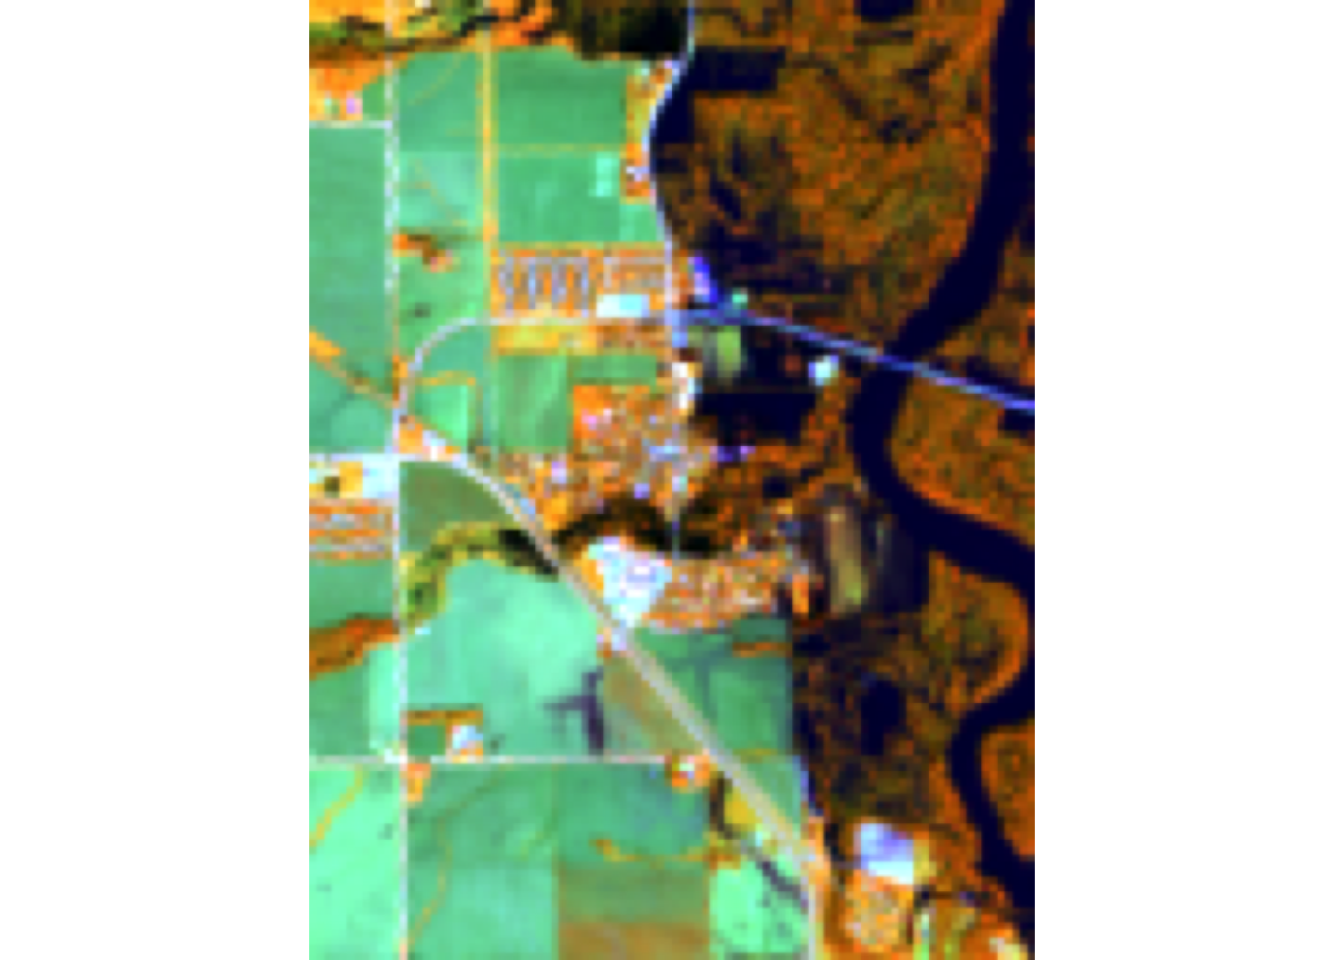
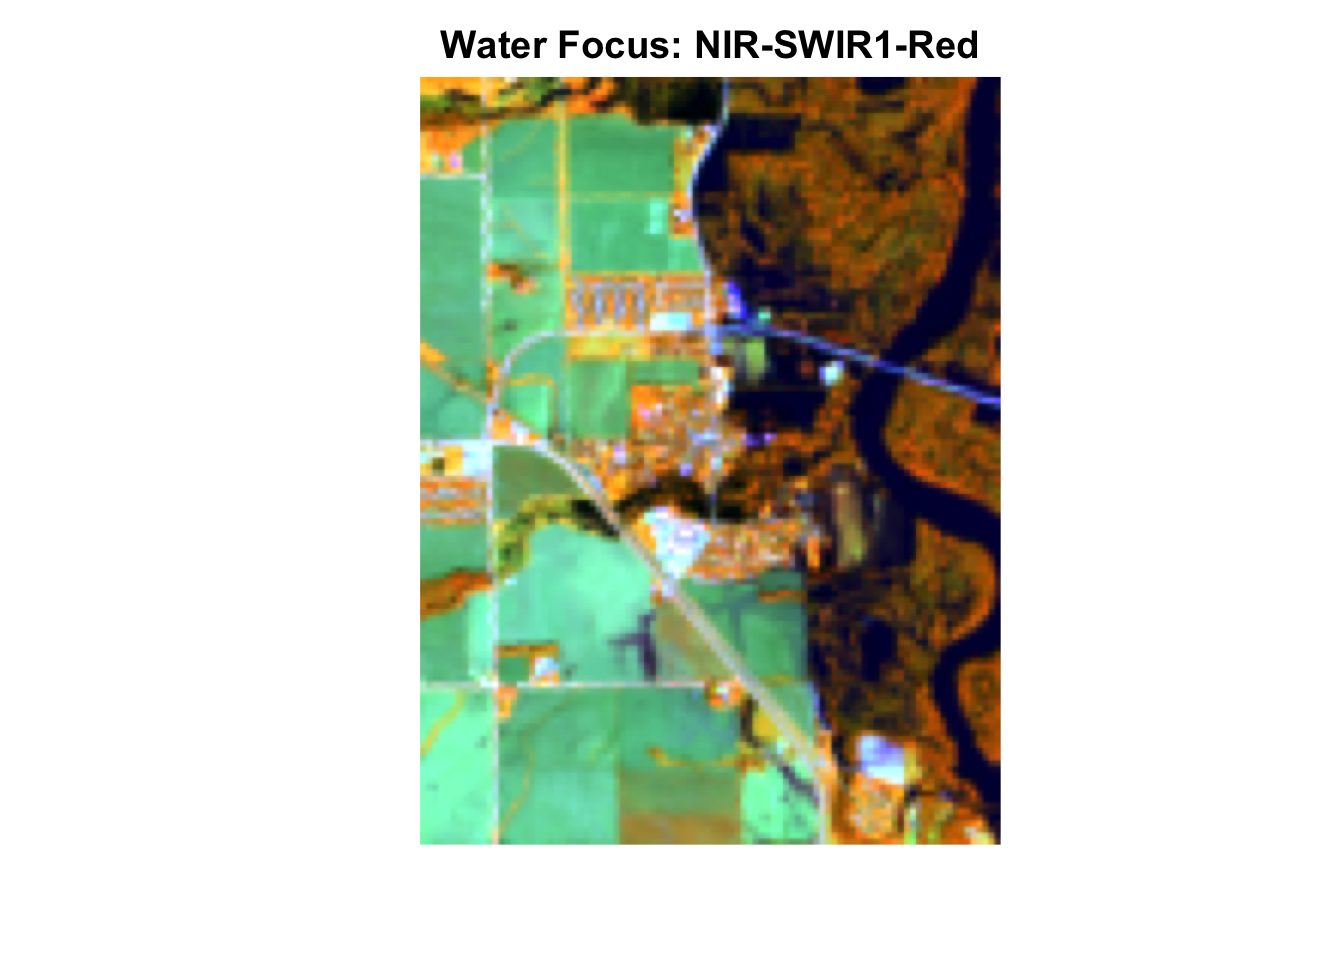
Lab 4 complete, fixed rbg plot titles

diff --git a/docs/523C_Lab-04_Schwanger.html b/docs/523C_Lab-04_Schwanger.html
@@ -273,8 +273,8 @@ window.Quarto = {
 <span id="cb2-4"><a href="#cb2-4" aria-hidden="true" tabindex="-1"></a></span>
 <span id="cb2-5"><a href="#cb2-5" aria-hidden="true" tabindex="-1"></a><span class="fu">mapview</span>(palo)</span></code></pre></div><button title="Copy to Clipboard" class="code-copy-button"><i class="bi"></i></button></div>
 <div class="cell-output-display">
-<div class="leaflet html-widget html-fill-item" id="htmlwidget-89f7363a204806e15efd" style="width:100%;height:464px;"></div>
-<script type="application/json" data-for="htmlwidget-89f7363a204806e15efd">{"x":{"options":{"minZoom":1,"maxZoom":52,"crs":{"crsClass":"L.CRS.EPSG3857","code":null,"proj4def":null,"projectedBounds":null,"options":{}},"preferCanvas":false,"bounceAtZoomLimits":false,"maxBounds":[[[-90,-370]],[[90,370]]]},"calls":[{"method":"addProviderTiles","args":["CartoDB.Positron","CartoDB.Positron","CartoDB.Positron",{"errorTileUrl":"","noWrap":false,"detectRetina":false,"pane":"tilePane"}]},{"method":"addProviderTiles","args":["CartoDB.DarkMatter","CartoDB.DarkMatter","CartoDB.DarkMatter",{"errorTileUrl":"","noWrap":false,"detectRetina":false,"pane":"tilePane"}]},{"method":"addProviderTiles","args":["OpenStreetMap","OpenStreetMap","OpenStreetMap",{"errorTileUrl":"","noWrap":false,"detectRetina":false,"pane":"tilePane"}]},{"method":"addProviderTiles","args":["Esri.WorldImagery","Esri.WorldImagery","Esri.WorldImagery",{"errorTileUrl":"","noWrap":false,"detectRetina":false,"pane":"tilePane"}]},{"method":"addProviderTiles","args":["OpenTopoMap","OpenTopoMap","OpenTopoMap",{"errorTileUrl":"","noWrap":false,"detectRetina":false,"pane":"tilePane"}]},{"method":"createMapPane","args":["polygon",420]},{"method":"addPolygons","args":[[[[{"lng":[-91.81281300000001,-91.778813,-91.778813,-91.81281300000001,-91.81281300000001],"lat":[42.048236,42.048236,42.082236,42.082236,42.048236]}]]],null,"palo",{"crs":{"crsClass":"L.CRS.EPSG3857","code":null,"proj4def":null,"projectedBounds":null,"options":{}},"pane":"polygon","stroke":true,"color":"#333333","weight":0.5,"opacity":0.9,"fill":true,"fillColor":"#6666FF","fillOpacity":0.6,"smoothFactor":1,"noClip":false},"<div class='scrollableContainer'><table class=mapview-popup id='popup'><tr class='coord'><td><\/td><th><b>Feature ID&emsp;<\/b><\/th><td>1&emsp;<\/td><\/tr><tr><td>1<\/td><th>request&emsp;<\/th><td>Palo, Iowa&emsp;<\/td><\/tr><tr><td>2<\/td><th>score&emsp;<\/th><td>100&emsp;<\/td><\/tr><tr><td>3<\/td><th>arcgis_address&emsp;<\/th><td>Palo, Iowa&emsp;<\/td><\/tr><tr><td>4<\/td><th>x&emsp;<\/th><td>-91.79581&emsp;<\/td><\/tr><tr><td>5<\/td><th>y&emsp;<\/th><td>42.06524&emsp;<\/td><\/tr><tr><td>6<\/td><th>geometry&emsp;<\/th><td>sfc_POLYGON&emsp;<\/td><\/tr><\/table><\/div>",{"maxWidth":800,"minWidth":50,"autoPan":true,"keepInView":false,"closeButton":true,"closeOnClick":true,"className":""},"1",{"interactive":false,"permanent":false,"direction":"auto","opacity":1,"offset":[0,0],"textsize":"10px","textOnly":false,"className":"","sticky":true},{"stroke":true,"weight":1,"opacity":0.9,"fillOpacity":0.84,"bringToFront":false,"sendToBack":false}]},{"method":"addScaleBar","args":[{"maxWidth":100,"metric":true,"imperial":true,"updateWhenIdle":true,"position":"bottomleft"}]},{"method":"addHomeButton","args":[-91.81281300000001,42.048236,-91.778813,42.082236,true,"palo","Zoom to palo","<strong> palo <\/strong>","bottomright"]},{"method":"addLayersControl","args":[["CartoDB.Positron","CartoDB.DarkMatter","OpenStreetMap","Esri.WorldImagery","OpenTopoMap"],"palo",{"collapsed":true,"autoZIndex":true,"position":"topleft"}]},{"method":"addLegend","args":[{"colors":["#6666FF"],"labels":["palo"],"na_color":null,"na_label":"NA","opacity":1,"position":"topright","type":"factor","title":"","extra":null,"layerId":null,"className":"info legend","group":"palo"}]}],"limits":{"lat":[42.048236,42.082236],"lng":[-91.81281300000001,-91.778813]},"fitBounds":[42.048236,-91.81281300000001,42.082236,-91.778813,[]]},"evals":[],"jsHooks":{"render":[{"code":"function(el, x, data) {\n  return (\n      function(el, x, data) {\n      // get the leaflet map\n      var map = this; //HTMLWidgets.find('#' + el.id);\n      // we need a new div element because we have to handle\n      // the mouseover output separately\n      // debugger;\n      function addElement () {\n      // generate new div Element\n      var newDiv = $(document.createElement('div'));\n      // append at end of leaflet htmlwidget container\n      $(el).append(newDiv);\n      //provide ID and style\n      newDiv.addClass('lnlt');\n      newDiv.css({\"position\":\"relative\",\"bottomleft\":\"0px\",\"background-color\":\"rgba(255, 255, 255, 0.7)\",\"box-shadow\":\"0 0 2px #bbb\",\"background-clip\":\"padding-box\",\"margin\":\"0\",\"padding-left\":\"5px\",\"padding-right\":\"5px\",\"color\":\"#333\",\"font-size\":\"9px\",\"font-family\":\"\\\"Helvetica Neue\\\", Arial, Helvetica, sans-serif\",\"text-align\":\"left\",\"z-index\":\"700\"});\n      return newDiv;\n      }\n\n\n      // check for already existing lnlt class to not duplicate\n      var lnlt = $(el).find('.lnlt');\n\n      if(!lnlt.length) {\n      lnlt = addElement();\n\n      // grab the special div we generated in the beginning\n      // and put the mousmove output there\n\n      map.on('mousemove', function (e) {\n      if (e.originalEvent.ctrlKey) {\n      if (document.querySelector('.lnlt') === null) lnlt = addElement();\n      lnlt.text(\n                           ' lon: ' + (e.latlng.lng).toFixed(5) +\n                           ' | lat: ' + (e.latlng.lat).toFixed(5) +\n                           ' | zoom: ' + map.getZoom() +\n                           ' | x: ' + L.CRS.EPSG3857.project(e.latlng).x.toFixed(0) +\n                           ' | y: ' + L.CRS.EPSG3857.project(e.latlng).y.toFixed(0) +\n                           ' | epsg: 3857 ' +\n                           ' | proj4: +proj=merc +a=6378137 +b=6378137 +lat_ts=0.0 +lon_0=0.0 +x_0=0.0 +y_0=0 +k=1.0 +units=m +nadgrids=@null +no_defs ');\n      } else {\n      if (document.querySelector('.lnlt') === null) lnlt = addElement();\n      lnlt.text(\n                      ' lon: ' + (e.latlng.lng).toFixed(5) +\n                      ' | lat: ' + (e.latlng.lat).toFixed(5) +\n                      ' | zoom: ' + map.getZoom() + ' ');\n      }\n      });\n\n      // remove the lnlt div when mouse leaves map\n      map.on('mouseout', function (e) {\n      var strip = document.querySelector('.lnlt');\n      if( strip !==null) strip.remove();\n      });\n\n      };\n\n      //$(el).keypress(67, function(e) {\n      map.on('preclick', function(e) {\n      if (e.originalEvent.ctrlKey) {\n      if (document.querySelector('.lnlt') === null) lnlt = addElement();\n      lnlt.text(\n                      ' lon: ' + (e.latlng.lng).toFixed(5) +\n                      ' | lat: ' + (e.latlng.lat).toFixed(5) +\n                      ' | zoom: ' + map.getZoom() + ' ');\n      var txt = document.querySelector('.lnlt').textContent;\n      console.log(txt);\n      //txt.innerText.focus();\n      //txt.select();\n      setClipboardText('\"' + txt + '\"');\n      }\n      });\n\n      }\n      ).call(this.getMap(), el, x, data);\n}","data":null},{"code":"function(el, x, data) {\n  return (function(el,x,data){\n           var map = this;\n\n           map.on('keypress', function(e) {\n               console.log(e.originalEvent.code);\n               var key = e.originalEvent.code;\n               if (key === 'KeyE') {\n                   var bb = this.getBounds();\n                   var txt = JSON.stringify(bb);\n                   console.log(txt);\n\n                   setClipboardText('\\'' + txt + '\\'');\n               }\n           })\n        }).call(this.getMap(), el, x, data);\n}","data":null}]}}</script>
+<div class="leaflet html-widget html-fill-item" id="htmlwidget-ac1f5c402791edbe1921" style="width:100%;height:464px;"></div>
+<script type="application/json" data-for="htmlwidget-ac1f5c402791edbe1921">{"x":{"options":{"minZoom":1,"maxZoom":52,"crs":{"crsClass":"L.CRS.EPSG3857","code":null,"proj4def":null,"projectedBounds":null,"options":{}},"preferCanvas":false,"bounceAtZoomLimits":false,"maxBounds":[[[-90,-370]],[[90,370]]]},"calls":[{"method":"addProviderTiles","args":["CartoDB.Positron","CartoDB.Positron","CartoDB.Positron",{"errorTileUrl":"","noWrap":false,"detectRetina":false,"pane":"tilePane"}]},{"method":"addProviderTiles","args":["CartoDB.DarkMatter","CartoDB.DarkMatter","CartoDB.DarkMatter",{"errorTileUrl":"","noWrap":false,"detectRetina":false,"pane":"tilePane"}]},{"method":"addProviderTiles","args":["OpenStreetMap","OpenStreetMap","OpenStreetMap",{"errorTileUrl":"","noWrap":false,"detectRetina":false,"pane":"tilePane"}]},{"method":"addProviderTiles","args":["Esri.WorldImagery","Esri.WorldImagery","Esri.WorldImagery",{"errorTileUrl":"","noWrap":false,"detectRetina":false,"pane":"tilePane"}]},{"method":"addProviderTiles","args":["OpenTopoMap","OpenTopoMap","OpenTopoMap",{"errorTileUrl":"","noWrap":false,"detectRetina":false,"pane":"tilePane"}]},{"method":"createMapPane","args":["polygon",420]},{"method":"addPolygons","args":[[[[{"lng":[-91.81281300000001,-91.778813,-91.778813,-91.81281300000001,-91.81281300000001],"lat":[42.048236,42.048236,42.082236,42.082236,42.048236]}]]],null,"palo",{"crs":{"crsClass":"L.CRS.EPSG3857","code":null,"proj4def":null,"projectedBounds":null,"options":{}},"pane":"polygon","stroke":true,"color":"#333333","weight":0.5,"opacity":0.9,"fill":true,"fillColor":"#6666FF","fillOpacity":0.6,"smoothFactor":1,"noClip":false},"<div class='scrollableContainer'><table class=mapview-popup id='popup'><tr class='coord'><td><\/td><th><b>Feature ID&emsp;<\/b><\/th><td>1&emsp;<\/td><\/tr><tr><td>1<\/td><th>request&emsp;<\/th><td>Palo, Iowa&emsp;<\/td><\/tr><tr><td>2<\/td><th>score&emsp;<\/th><td>100&emsp;<\/td><\/tr><tr><td>3<\/td><th>arcgis_address&emsp;<\/th><td>Palo, Iowa&emsp;<\/td><\/tr><tr><td>4<\/td><th>x&emsp;<\/th><td>-91.79581&emsp;<\/td><\/tr><tr><td>5<\/td><th>y&emsp;<\/th><td>42.06524&emsp;<\/td><\/tr><tr><td>6<\/td><th>geometry&emsp;<\/th><td>sfc_POLYGON&emsp;<\/td><\/tr><\/table><\/div>",{"maxWidth":800,"minWidth":50,"autoPan":true,"keepInView":false,"closeButton":true,"closeOnClick":true,"className":""},"1",{"interactive":false,"permanent":false,"direction":"auto","opacity":1,"offset":[0,0],"textsize":"10px","textOnly":false,"className":"","sticky":true},{"stroke":true,"weight":1,"opacity":0.9,"fillOpacity":0.84,"bringToFront":false,"sendToBack":false}]},{"method":"addScaleBar","args":[{"maxWidth":100,"metric":true,"imperial":true,"updateWhenIdle":true,"position":"bottomleft"}]},{"method":"addHomeButton","args":[-91.81281300000001,42.048236,-91.778813,42.082236,true,"palo","Zoom to palo","<strong> palo <\/strong>","bottomright"]},{"method":"addLayersControl","args":[["CartoDB.Positron","CartoDB.DarkMatter","OpenStreetMap","Esri.WorldImagery","OpenTopoMap"],"palo",{"collapsed":true,"autoZIndex":true,"position":"topleft"}]},{"method":"addLegend","args":[{"colors":["#6666FF"],"labels":["palo"],"na_color":null,"na_label":"NA","opacity":1,"position":"topright","type":"factor","title":"","extra":null,"layerId":null,"className":"info legend","group":"palo"}]}],"limits":{"lat":[42.048236,42.082236],"lng":[-91.81281300000001,-91.778813]},"fitBounds":[42.048236,-91.81281300000001,42.082236,-91.778813,[]]},"evals":[],"jsHooks":{"render":[{"code":"function(el, x, data) {\n  return (\n      function(el, x, data) {\n      // get the leaflet map\n      var map = this; //HTMLWidgets.find('#' + el.id);\n      // we need a new div element because we have to handle\n      // the mouseover output separately\n      // debugger;\n      function addElement () {\n      // generate new div Element\n      var newDiv = $(document.createElement('div'));\n      // append at end of leaflet htmlwidget container\n      $(el).append(newDiv);\n      //provide ID and style\n      newDiv.addClass('lnlt');\n      newDiv.css({\"position\":\"relative\",\"bottomleft\":\"0px\",\"background-color\":\"rgba(255, 255, 255, 0.7)\",\"box-shadow\":\"0 0 2px #bbb\",\"background-clip\":\"padding-box\",\"margin\":\"0\",\"padding-left\":\"5px\",\"padding-right\":\"5px\",\"color\":\"#333\",\"font-size\":\"9px\",\"font-family\":\"\\\"Helvetica Neue\\\", Arial, Helvetica, sans-serif\",\"text-align\":\"left\",\"z-index\":\"700\"});\n      return newDiv;\n      }\n\n\n      // check for already existing lnlt class to not duplicate\n      var lnlt = $(el).find('.lnlt');\n\n      if(!lnlt.length) {\n      lnlt = addElement();\n\n      // grab the special div we generated in the beginning\n      // and put the mousmove output there\n\n      map.on('mousemove', function (e) {\n      if (e.originalEvent.ctrlKey) {\n      if (document.querySelector('.lnlt') === null) lnlt = addElement();\n      lnlt.text(\n                           ' lon: ' + (e.latlng.lng).toFixed(5) +\n                           ' | lat: ' + (e.latlng.lat).toFixed(5) +\n                           ' | zoom: ' + map.getZoom() +\n                           ' | x: ' + L.CRS.EPSG3857.project(e.latlng).x.toFixed(0) +\n                           ' | y: ' + L.CRS.EPSG3857.project(e.latlng).y.toFixed(0) +\n                           ' | epsg: 3857 ' +\n                           ' | proj4: +proj=merc +a=6378137 +b=6378137 +lat_ts=0.0 +lon_0=0.0 +x_0=0.0 +y_0=0 +k=1.0 +units=m +nadgrids=@null +no_defs ');\n      } else {\n      if (document.querySelector('.lnlt') === null) lnlt = addElement();\n      lnlt.text(\n                      ' lon: ' + (e.latlng.lng).toFixed(5) +\n                      ' | lat: ' + (e.latlng.lat).toFixed(5) +\n                      ' | zoom: ' + map.getZoom() + ' ');\n      }\n      });\n\n      // remove the lnlt div when mouse leaves map\n      map.on('mouseout', function (e) {\n      var strip = document.querySelector('.lnlt');\n      if( strip !==null) strip.remove();\n      });\n\n      };\n\n      //$(el).keypress(67, function(e) {\n      map.on('preclick', function(e) {\n      if (e.originalEvent.ctrlKey) {\n      if (document.querySelector('.lnlt') === null) lnlt = addElement();\n      lnlt.text(\n                      ' lon: ' + (e.latlng.lng).toFixed(5) +\n                      ' | lat: ' + (e.latlng.lat).toFixed(5) +\n                      ' | zoom: ' + map.getZoom() + ' ');\n      var txt = document.querySelector('.lnlt').textContent;\n      console.log(txt);\n      //txt.innerText.focus();\n      //txt.select();\n      setClipboardText('\"' + txt + '\"');\n      }\n      });\n\n      }\n      ).call(this.getMap(), el, x, data);\n}","data":null},{"code":"function(el, x, data) {\n  return (function(el,x,data){\n           var map = this;\n\n           map.on('keypress', function(e) {\n               console.log(e.originalEvent.code);\n               var key = e.originalEvent.code;\n               if (key === 'KeyE') {\n                   var bb = this.getBounds();\n                   var txt = JSON.stringify(bb);\n                   console.log(txt);\n\n                   setClipboardText('\\'' + txt + '\\'');\n               }\n           })\n        }).call(this.getMap(), el, x, data);\n}","data":null}]}}</script>
 </div>
 </div>
 </section>
@@ -427,7 +427,7 @@ max values  :   15955, 17035, 18409, 19288, 23896,  26946 </code></pre>
 <p>What does each image allow you to see?</p>
 <div class="cell">
 <div class="code-copy-outer-scaffold"><div class="sourceCode cell-code" id="cb12"><pre class="sourceCode r code-with-copy"><code class="sourceCode r"><span id="cb12-1"><a href="#cb12-1" aria-hidden="true" tabindex="-1"></a><span class="fu">plotRGB</span>(landsat_crop, <span class="at">r =</span> <span class="dv">4</span>, <span class="at">g =</span> <span class="dv">3</span>, <span class="at">b =</span> <span class="dv">2</span>, <span class="at">stretch =</span> <span class="st">"lin"</span>, </span>
-<span id="cb12-2"><a href="#cb12-2" aria-hidden="true" tabindex="-1"></a>        <span class="at">main =</span> <span class="st">"Natural Color: Red-Green-Blue"</span>)</span></code></pre></div><button title="Copy to Clipboard" class="code-copy-button"><i class="bi"></i></button></div>
+<span id="cb12-2"><a href="#cb12-2" aria-hidden="true" tabindex="-1"></a>        <span class="at">main =</span> <span class="st">"Natural Color: Red-Green-Blue"</span>, <span class="at">mar =</span> <span class="fu">c</span>(<span class="dv">3</span>, <span class="dv">3</span>, <span class="dv">2</span>, <span class="dv">1</span>))</span></code></pre></div><button title="Copy to Clipboard" class="code-copy-button"><i class="bi"></i></button></div>
 <div class="cell-output-display">
 <div>
 <figure class="figure">
@@ -441,7 +441,7 @@ max values  :   15955, 17035, 18409, 19288, 23896,  26946 </code></pre>
 </blockquote>
 <div class="cell">
 <div class="code-copy-outer-scaffold"><div class="sourceCode cell-code" id="cb13"><pre class="sourceCode r code-with-copy"><code class="sourceCode r"><span id="cb13-1"><a href="#cb13-1" aria-hidden="true" tabindex="-1"></a><span class="fu">plotRGB</span>(landsat_crop, <span class="at">r =</span> <span class="dv">5</span>, <span class="at">g =</span> <span class="dv">4</span>, <span class="at">b =</span> <span class="dv">3</span>, <span class="at">stretch =</span> <span class="st">"lin"</span>,</span>
-<span id="cb13-2"><a href="#cb13-2" aria-hidden="true" tabindex="-1"></a>        <span class="at">main =</span> <span class="st">"Color Infrared: NIR-Red-Green"</span>)</span></code></pre></div><button title="Copy to Clipboard" class="code-copy-button"><i class="bi"></i></button></div>
+<span id="cb13-2"><a href="#cb13-2" aria-hidden="true" tabindex="-1"></a>        <span class="at">main =</span> <span class="st">"Color Infrared: NIR-Red-Green"</span>, <span class="at">mar =</span> <span class="fu">c</span>(<span class="dv">3</span>, <span class="dv">3</span>, <span class="dv">2</span>, <span class="dv">1</span>))</span></code></pre></div><button title="Copy to Clipboard" class="code-copy-button"><i class="bi"></i></button></div>
 <div class="cell-output-display">
 <div>
 <figure class="figure">
@@ -455,7 +455,7 @@ max values  :   15955, 17035, 18409, 19288, 23896,  26946 </code></pre>
 </blockquote>
 <div class="cell">
 <div class="code-copy-outer-scaffold"><div class="sourceCode cell-code" id="cb14"><pre class="sourceCode r code-with-copy"><code class="sourceCode r"><span id="cb14-1"><a href="#cb14-1" aria-hidden="true" tabindex="-1"></a><span class="fu">plotRGB</span>(landsat_crop, <span class="at">r =</span> <span class="dv">5</span>, <span class="at">g =</span> <span class="dv">6</span>, <span class="at">b =</span> <span class="dv">4</span>, <span class="at">stretch =</span> <span class="st">"lin"</span>,</span>
-<span id="cb14-2"><a href="#cb14-2" aria-hidden="true" tabindex="-1"></a>        <span class="at">main =</span> <span class="st">"Water Focus: NIR-SWIR1-Red"</span>)</span></code></pre></div><button title="Copy to Clipboard" class="code-copy-button"><i class="bi"></i></button></div>
+<span id="cb14-2"><a href="#cb14-2" aria-hidden="true" tabindex="-1"></a>        <span class="at">main =</span> <span class="st">"Water Focus: NIR-SWIR1-Red"</span>, <span class="at">mar =</span> <span class="fu">c</span>(<span class="dv">3</span>, <span class="dv">3</span>, <span class="dv">2</span>, <span class="dv">1</span>))</span></code></pre></div><button title="Copy to Clipboard" class="code-copy-button"><i class="bi"></i></button></div>
 <div class="cell-output-display">
 <div>
 <figure class="figure">
@@ -469,7 +469,7 @@ max values  :   15955, 17035, 18409, 19288, 23896,  26946 </code></pre>
 </blockquote>
 <div class="cell">
 <div class="code-copy-outer-scaffold"><div class="sourceCode cell-code" id="cb15"><pre class="sourceCode r code-with-copy"><code class="sourceCode r"><span id="cb15-1"><a href="#cb15-1" aria-hidden="true" tabindex="-1"></a><span class="fu">plotRGB</span>(landsat_crop, <span class="at">r =</span> <span class="dv">1</span>, <span class="at">g =</span> <span class="dv">6</span>, <span class="at">b =</span> <span class="dv">5</span>, <span class="at">stretch =</span> <span class="st">"lin"</span>,</span>
-<span id="cb15-2"><a href="#cb15-2" aria-hidden="true" tabindex="-1"></a>        <span class="at">main =</span> <span class="st">"Coastal-SWIR1-NIR"</span>)</span></code></pre></div><button title="Copy to Clipboard" class="code-copy-button"><i class="bi"></i></button></div>
+<span id="cb15-2"><a href="#cb15-2" aria-hidden="true" tabindex="-1"></a>        <span class="at">main =</span> <span class="st">"Coastal-SWIR1-NIR"</span>, <span class="at">mar =</span> <span class="fu">c</span>(<span class="dv">3</span>, <span class="dv">3</span>, <span class="dv">2</span>, <span class="dv">1</span>))</span></code></pre></div><button title="Copy to Clipboard" class="code-copy-button"><i class="bi"></i></button></div>
 <div class="cell-output-display">
 <div>
 <figure class="figure">
@@ -804,8 +804,8 @@ KMeans  964   0.8676</code></pre>
 <span id="cb35-4"><a href="#cb35-4" aria-hidden="true" tabindex="-1"></a></span>
 <span id="cb35-5"><a href="#cb35-5" aria-hidden="true" tabindex="-1"></a><span class="fu">mapview</span>(flood_map, <span class="at">col.regions =</span> blues9, <span class="at">layer.name =</span> <span class="st">"Flood Certainty"</span>)</span></code></pre></div><button title="Copy to Clipboard" class="code-copy-button"><i class="bi"></i></button></div>
 <div class="cell-output-display">
-<div class="leaflet html-widget html-fill-item" id="htmlwidget-5b08480c2ed90b64bbb2" style="width:100%;height:464px;"></div>
[1 lines of base64/hex data omitted]
+<div class="leaflet html-widget html-fill-item" id="htmlwidget-74d120091574a6c2c731" style="width:100%;height:464px;"></div>
[1 lines of base64/hex data omitted]
 </div>
 </div>
 <p>Why are some of the cell values not an even number?</p>
